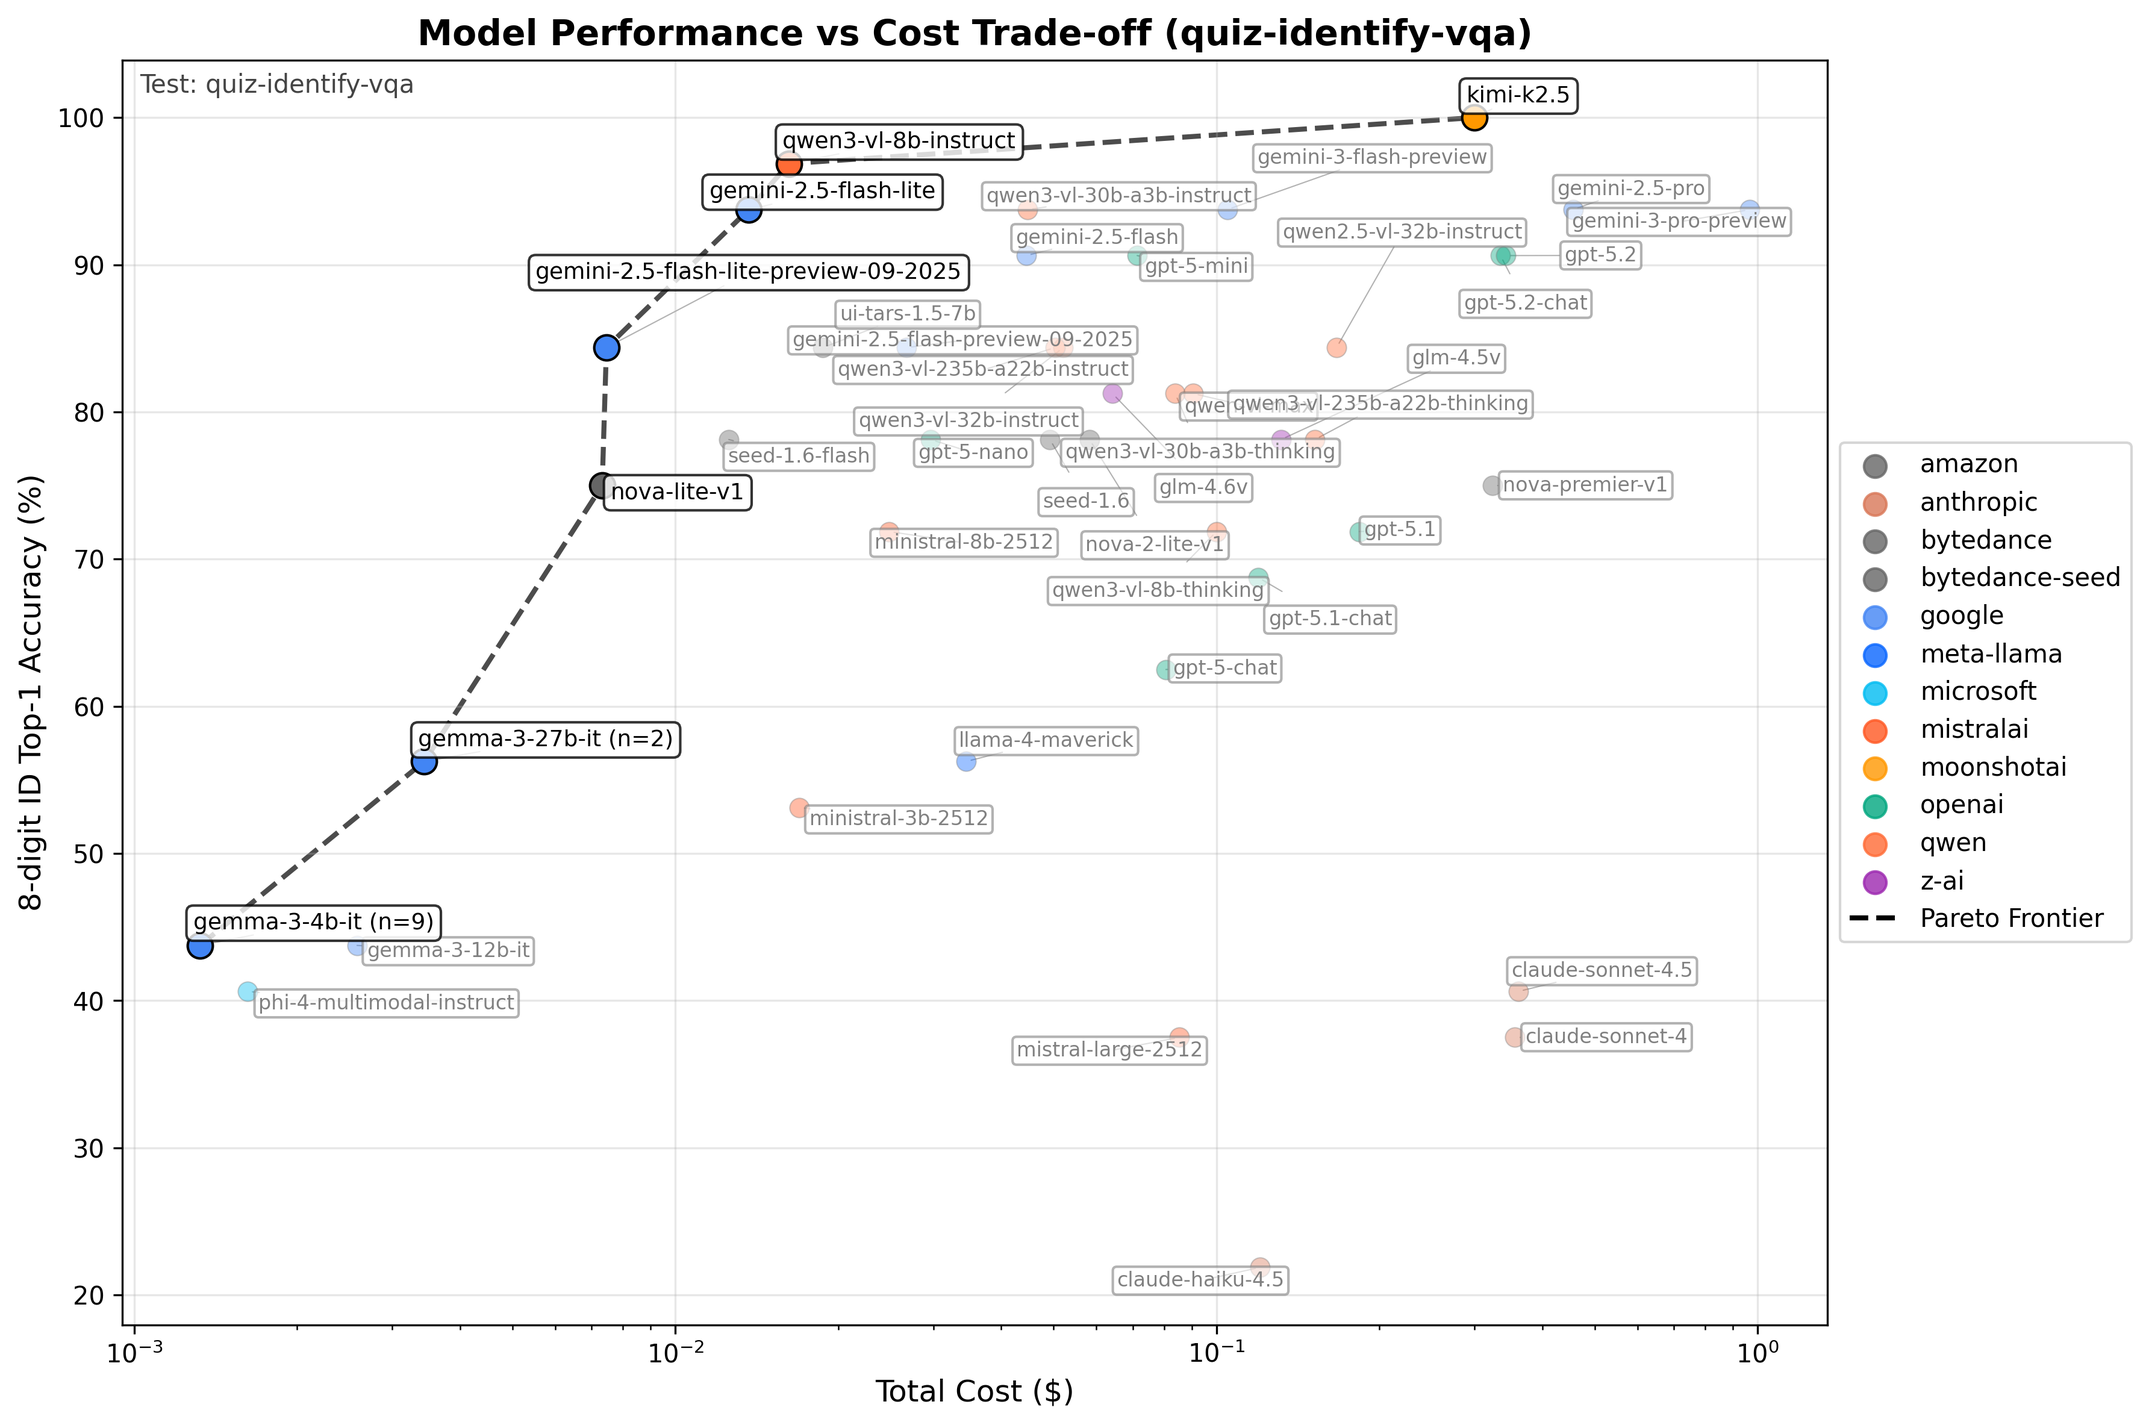
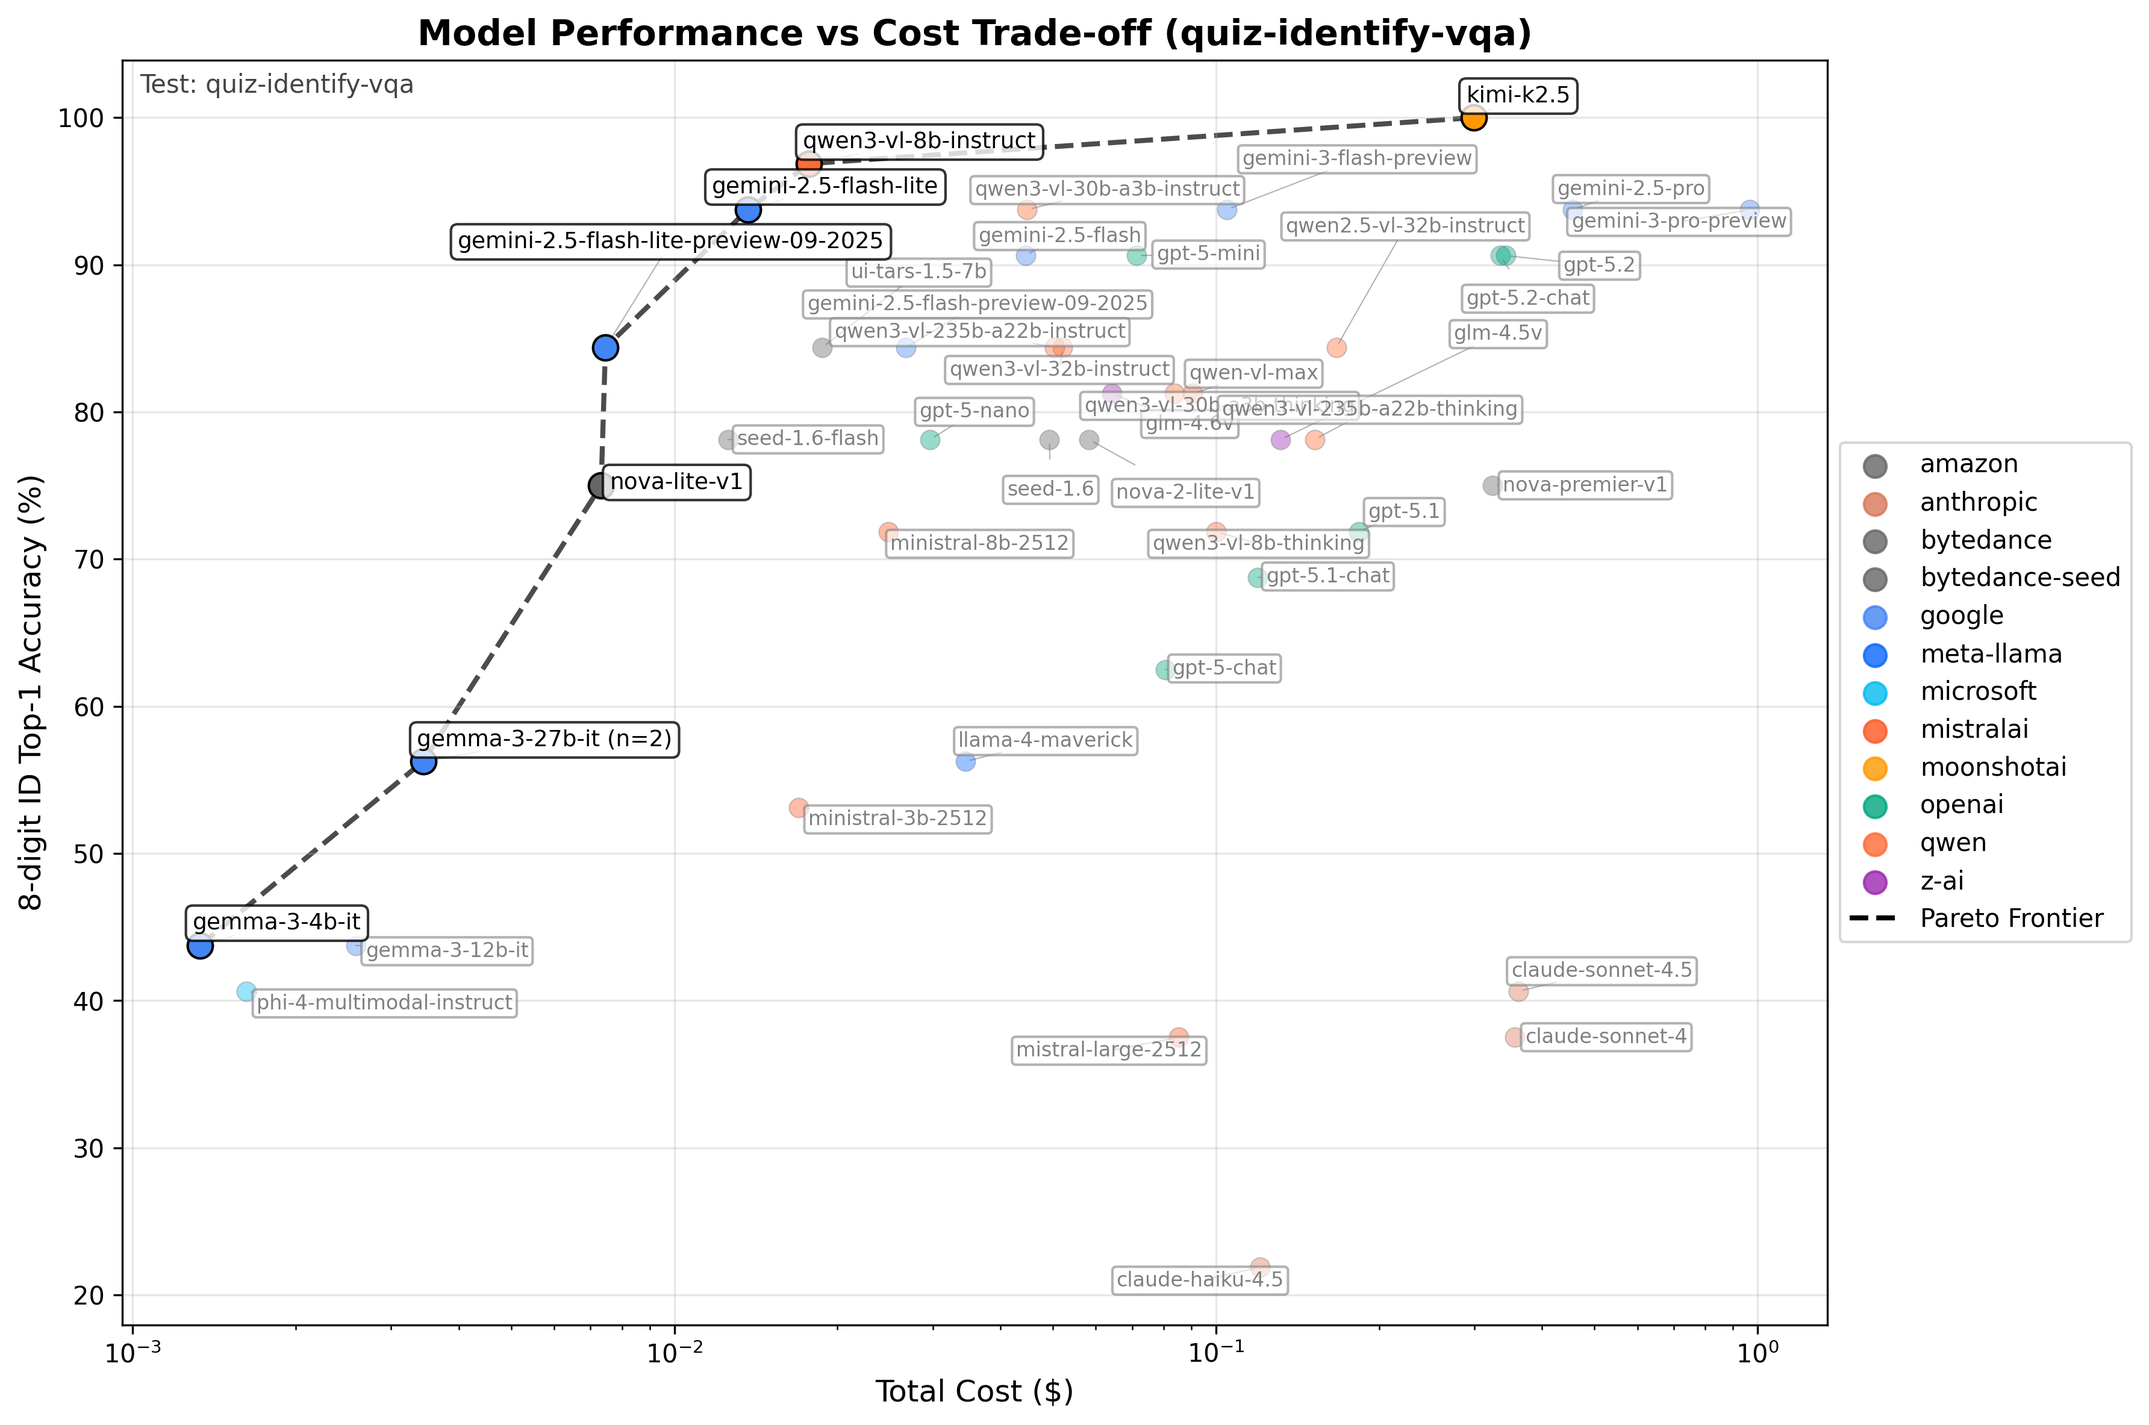
Label README runtime as Runtime (p) and refresh benchmark outputs

diff --git a/src/batch_doc_vqa/benchmarks/table_generator.py b/src/batch_doc_vqa/benchmarks/table_generator.py
@@ -793,7 +793,8 @@ class BenchmarkTableGenerator:
                     )
                     for _, data in ordered_models
                 ]
-                row_data = [row_name] + self._format_best_value(values, higher_is_better=False, format_type="markdown")
+                runtime_label = "Runtime (p)" if prefer_fully_parallelizable_runtime else row_name
+                row_data = [runtime_label] + self._format_best_value(values, higher_is_better=False, format_type="markdown")
                 
             elif row_name == "Cost per image":
                 values = [self.OPENCV_CNN_BASELINE[row_name]] + [

diff --git a/BENCHMARKS.md b/BENCHMARKS.md
@@ -34,16 +34,16 @@ All VLM runs use the following consistent configuration:
 ## Complete Results
 
 
-| **Metric** | **OpenCV+CNN** | **google**<br>gemma-3-27b-it | **google**<br>gemma-3-4b-it | **google**<br>gemma-3-12b-it | **google**<br>gemini-3-flash-preview | **google**<br>gemini-3-pro-preview | **google**<br>gemini-2.5-flash-preview-09-2025 | **google**<br>gemini-2.5-flash-lite-preview-09-2025 | **google**<br>gemini-2.5-pro | **google**<br>gemini-2.5-flash-lite | **google**<br>gemini-2.5-flash | **qwen**<br>qwen3-vl-8b-instruct | **qwen**<br>qwen3-vl-32b-instruct | **qwen**<br>qwen3-vl-8b-thinking | **qwen**<br>qwen3-vl-30b-a3b-instruct | **qwen**<br>qwen3-vl-30b-a3b-thinking | **qwen**<br>qwen-vl-max | **qwen**<br>qwen3-vl-235b-a22b-thinking | **qwen**<br>qwen3-vl-235b-a22b-instruct | **qwen**<br>qwen2.5-vl-32b-instruct | **moonshotai**<br>kimi-k2.5 | **moonshotai**<br>kimi-vl-a3b-thinking:free | **bytedance-seed**<br>seed-1.6 | **bytedance-seed**<br>seed-1.6-flash | **mistralai**<br>ministral-8b-2512 | **mistralai**<br>ministral-3b-2512 | **mistralai**<br>mistral-large-2512 | **openai**<br>gpt-5.2-chat | **openai**<br>gpt-5.2 | **openai**<br>gpt-5.1-chat | **openai**<br>gpt-5.1 | **openai**<br>gpt-5-chat | **openai**<br>gpt-5-mini | **openai**<br>gpt-5-nano | **amazon**<br>nova-2-lite-v1 | **amazon**<br>nova-premier-v1 | **amazon**<br>nova-lite-v1 | **z-ai**<br>glm-4.6v | **z-ai**<br>glm-4.5v | **anthropic**<br>claude-haiku-4.5 | **anthropic**<br>claude-sonnet-4.5 | **anthropic**<br>claude-sonnet-4 | **microsoft**<br>phi-4-multimodal-instruct | **bytedance**<br>ui-tars-1.5-7b | **meta-llama**<br>llama-4-maverick |
+| **Metric** | **OpenCV+CNN** | **qwen**<br>qwen3-vl-8b-instruct | **qwen**<br>qwen3-vl-32b-instruct | **qwen**<br>qwen3-vl-8b-thinking | **qwen**<br>qwen3-vl-30b-a3b-instruct | **qwen**<br>qwen3-vl-30b-a3b-thinking | **qwen**<br>qwen-vl-max | **qwen**<br>qwen3-vl-235b-a22b-thinking | **qwen**<br>qwen3-vl-235b-a22b-instruct | **qwen**<br>qwen2.5-vl-32b-instruct | **google**<br>gemma-3-4b-it | **google**<br>gemma-3-27b-it | **google**<br>gemma-3-12b-it | **google**<br>gemini-3-flash-preview | **google**<br>gemini-3-pro-preview | **google**<br>gemini-2.5-flash-preview-09-2025 | **google**<br>gemini-2.5-flash-lite-preview-09-2025 | **google**<br>gemini-2.5-pro | **google**<br>gemini-2.5-flash-lite | **google**<br>gemini-2.5-flash | **moonshotai**<br>kimi-k2.5 | **moonshotai**<br>kimi-vl-a3b-thinking:free | **bytedance-seed**<br>seed-1.6 | **bytedance-seed**<br>seed-1.6-flash | **mistralai**<br>ministral-8b-2512 | **mistralai**<br>ministral-3b-2512 | **mistralai**<br>mistral-large-2512 | **openai**<br>gpt-5.2-chat | **openai**<br>gpt-5.2 | **openai**<br>gpt-5.1-chat | **openai**<br>gpt-5.1 | **openai**<br>gpt-5-chat | **openai**<br>gpt-5-mini | **openai**<br>gpt-5-nano | **amazon**<br>nova-2-lite-v1 | **amazon**<br>nova-premier-v1 | **amazon**<br>nova-lite-v1 | **z-ai**<br>glm-4.6v | **z-ai**<br>glm-4.5v | **anthropic**<br>claude-haiku-4.5 | **anthropic**<br>claude-sonnet-4.5 | **anthropic**<br>claude-sonnet-4 | **microsoft**<br>phi-4-multimodal-instruct | **bytedance**<br>ui-tars-1.5-7b | **meta-llama**<br>llama-4-maverick |
 |:---|:---|:---|:---|:---|:---|:---|:---|:---|:---|:---|:---|:---|:---|:---|:---|:---|:---|:---|:---|:---|:---|:---|:---|:---|:---|:---|:---|:---|:---|:---|:---|:---|:---|:---|:---|:---|:---|:---|:---|:---|:---|:---|:---|:---|:---|
-| LLM model size | N/A | 27B | 4B | 12B | ?? | ?? | ?? | ?? | ?? | ?? | ?? | 8B | 32B | 8B | 30A3 | 30A3 | ?? | 235A22 | 235A22 | 32B | 1000A32 | 16A3 | ?? | ?? | 8B | 3B | 675A41 | ?? | ?? | ?? | ?? | ?? | ?? | ?? | ?? | ?? | ?? | 106B | 106A12 | ?? | ?? | ?? | 5.6B | 7B | 400A17 |
-| Open-weights | N/A | Yes | Yes | Yes | No | No | No | No | No | No | No | Yes | Yes | Yes | Yes | Yes | No | Yes | Yes | Yes | Yes | Yes | No | No | Yes | Yes | Yes | No | No | No | No | No | No | No | No | No | No | Yes | Yes | No | No | No | Yes | Yes | Yes |
-| digit_top1 | 85.16% | 84.18% (n=2) | 70.31% [69.92%, 72.66%] (n=9) | 75.39% | 99.22% | 99.22% | 98.05% | 97.66% | 99.22% | 99.22% | 98.83% | 99.61% | 97.27% | 92.19% | 99.22% | 97.27% | 97.27% | 94.53% | 97.66% | 96.09% | **100.00%** | 85.94% | 96.48% | 95.70% | 89.84% | 83.59% | 78.12% | 98.44% | 98.44% | 91.80% | 92.58% | 89.84% | 98.83% | 96.48% | 97.27% | 94.53% | 89.06% | 94.92% | 93.36% | 74.22% | 82.81% | 84.77% | 71.48% | 96.48% | 89.84% |
-| 8-digit id_top1 | ?? | 56.25% (n=2) | 43.75% [43.75%, 43.75%] (n=9) | 43.75% | 93.75% | 93.75% | 84.38% | 84.38% | 93.75% | 93.75% | 90.62% | 96.88% | 84.38% | 71.88% | 93.75% | 81.25% | 81.25% | 78.12% | 84.38% | 84.38% | **100.00%** | 50.00% | 78.12% | 78.12% | 71.88% | 53.12% | 37.50% | 90.62% | 90.62% | 68.75% | 71.88% | 62.50% | 90.62% | 78.12% | 78.12% | 75.00% | 75.00% | 81.25% | 78.12% | 21.88% | 40.62% | 37.50% | 40.62% | 84.38% | 56.25% |
-| lastname_top1 | N/A | **100.00% (n=2)** | 93.75% [93.75%, 93.75%] (n=9) | **100.00%** | 96.88% | 96.88% | 96.88% | 96.88% | 96.88% | 93.75% | 96.88% | 96.88% | 96.88% | 90.62% | 93.75% | 93.75% | 96.88% | **100.00%** | 96.88% | **100.00%** | 96.88% | 96.88% | 93.75% | 96.88% | 93.75% | 90.62% | 84.38% | 96.88% | 93.75% | **100.00%** | 96.88% | **100.00%** | 96.88% | 90.62% | 96.88% | 96.88% | 96.88% | 96.88% | **100.00%** | 93.75% | 93.75% | **100.00%** | **100.00%** | 96.88% | 93.75% |
-| ID Avg d_Lev | N/A | 0.9375 (n=2) | 1.1875 [1.0938, 1.1875] (n=9) | 0.9688 | 0.0625 | 0.0625 | 0.1562 | 0.1875 | 0.0625 | 0.0625 | 0.0938 | 0.0312 | 0.2188 | 0.5000 | 0.0625 | 0.2188 | 0.2188 | 0.4688 | 0.1875 | 0.1562 | **0.0000** | 0.9062 | 0.2812 | 0.2812 | 0.4062 | 0.5312 | 1.2188 | 0.1250 | 0.1250 | 0.4375 | 0.5938 | 0.5312 | 0.0938 | 0.2188 | 0.2188 | 0.2500 | 0.3750 | 0.1875 | 0.2188 | 1.4062 | 1.0000 | 1.0938 | 1.2188 | 0.1562 | 0.5312 |
-| Lastname Avg d_Lev | N/A | **0.0000 (n=2)** | 0.0938 [0.0938, 0.0938] (n=9) | **0.0000** | 0.0312 | 0.0312 | 0.0312 | 0.0312 | 0.0312 | 0.0625 | 0.0312 | 0.0312 | 0.0312 | 0.3125 | 0.1875 | 0.0625 | 0.0312 | **0.0000** | 0.0312 | **0.0000** | 0.0312 | 0.0938 | 0.1875 | 0.0312 | 0.1562 | 0.2188 | 0.4688 | 0.0625 | 0.1875 | **0.0000** | 0.0312 | **0.0000** | 0.0312 | 0.1250 | 0.0938 | 0.0312 | 0.0312 | 0.0312 | **0.0000** | 0.2188 | 0.0938 | **0.0000** | **0.0000** | 0.0312 | 0.0938 |
-| Docs detected | 90.62% (29/32) | **100.00% (32/32) (n=2)** | **100.00% (32/32) [100.00%, 100.00%] (n=9)** | **100.00% (32/32)** | **100.00% (32/32)** | **100.00% (32/32)** | **100.00% (32/32)** | **100.00% (32/32)** | **100.00% (32/32)** | **100.00% (32/32)** | **100.00% (32/32)** | **100.00% (32/32)** | **100.00% (32/32)** | **100.00% (32/32)** | **100.00% (32/32)** | **100.00% (32/32)** | **100.00% (32/32)** | **100.00% (32/32)** | **100.00% (32/32)** | **100.00% (32/32)** | **100.00% (32/32)** | **100.00% (32/32)** | **100.00% (32/32)** | **100.00% (32/32)** | **100.00% (32/32)** | **100.00% (32/32)** | **100.00% (32/32)** | **100.00% (32/32)** | **100.00% (32/32)** | **100.00% (32/32)** | **100.00% (32/32)** | **100.00% (32/32)** | **100.00% (32/32)** | **100.00% (32/32)** | **100.00% (32/32)** | **100.00% (32/32)** | **100.00% (32/32)** | **100.00% (32/32)** | **100.00% (32/32)** | **100.00% (32/32)** | **100.00% (32/32)** | **100.00% (32/32)** | **100.00% (32/32)** | **100.00% (32/32)** | **100.00% (32/32)** |
-| Runtime | **~1 second** | 17 seconds (n=2) | 2.1 minutes (n=9) | 10 seconds | 8 seconds | 26.4 minutes | 4.4 minutes | 4.4 minutes | 8.0 minutes | 2.3 minutes | 2.7 minutes | 7 seconds | 2.6 minutes | 14.4 minutes | 2.3 minutes | 6.3 minutes | 4.5 minutes | 13.9 minutes | 4.5 minutes | 2.3 minutes | 1.6 minutes | 9.5 minutes | 57 seconds | 44 seconds | 14 seconds | 18 seconds | 23 seconds | 53 seconds | 57 seconds | 5.2 minutes | 8.9 minutes | 2.8 minutes | 8.3 minutes | 10.5 minutes | 3.5 minutes | 6.4 minutes | 1.7 minutes | 6.6 minutes | 6.2 minutes | 5.0 minutes | 5.4 minutes | 3.5 minutes | 2.1 minutes | 1.8 minutes | 2.0 minutes |
-| Cost per image | **$0.00** | $0.000054 (n=2) | $0.000021 [$0.000021, $0.000021] (n=9) | $0.000040 | $0.001636 | $0.015111 | $0.000418 | $0.000117 | $0.007125 | $0.000214 | $0.000695 | $0.000253 | $0.000814 | $0.001563 | $0.000700 | $0.001311 | $0.001415 | $0.002376 | $0.000786 | $0.002605 | $0.004679 | **$0.000000** | $0.000770 | $0.000196 | $0.000388 | $0.000265 | $0.001335 | $0.005232 | $0.005352 | $0.001866 | $0.002870 | $0.001260 | $0.001115 | $0.000463 | $0.000911 | $0.005061 | $0.000114 | $0.001004 | $0.002057 | $0.001882 | $0.005646 | $0.005567 | $0.000025 | $0.000293 | $0.000539 |
-| Total cost | **$0.00** | $0.0034 (n=2) | $0.0013 [$0.0013, $0.0013] (n=9) | $0.0026 | $0.1047 | $0.9671 | $0.0267 | $0.0075 | $0.4560 | $0.0137 | $0.0445 | $0.0162 | $0.0521 | $0.1000 | $0.0448 | $0.0839 | $0.0906 | $0.1521 | $0.0503 | $0.1667 | $0.2995 | **$0.0000** | $0.0492 | $0.0126 | $0.0248 | $0.0170 | $0.0854 | $0.3348 | $0.3426 | $0.1195 | $0.1837 | $0.0807 | $0.0714 | $0.0297 | $0.0583 | $0.3239 | $0.0073 | $0.0642 | $0.1316 | $0.1205 | $0.3614 | $0.3563 | $0.0016 | $0.0187 | $0.0345 |
+| LLM model size | N/A | 8B | 32B | 8B | 30A3 | 30A3 | ?? | 235A22 | 235A22 | 32B | 4B | 27B | 12B | ?? | ?? | ?? | ?? | ?? | ?? | ?? | 1000A32 | 16A3 | ?? | ?? | 8B | 3B | 675A41 | ?? | ?? | ?? | ?? | ?? | ?? | ?? | ?? | ?? | ?? | 106B | 106A12 | ?? | ?? | ?? | 5.6B | 7B | 400A17 |
+| Open-weights | N/A | Yes | Yes | Yes | Yes | Yes | No | Yes | Yes | Yes | Yes | Yes | Yes | No | No | No | No | No | No | No | Yes | Yes | No | No | Yes | Yes | Yes | No | No | No | No | No | No | No | No | No | No | Yes | Yes | No | No | No | Yes | Yes | Yes |
+| digit_top1 | 85.16% | 99.61% | 97.27% | 92.19% | 99.22% | 97.27% | 97.27% | 94.53% | 97.66% | 96.09% | 72.66% | 84.18% (n=2) | 75.39% | 99.22% | 99.22% | 98.05% | 97.66% | 99.22% | 99.22% | 98.83% | **100.00%** | 85.94% | 96.48% | 95.70% | 89.84% | 83.59% | 78.12% | 98.44% | 98.44% | 91.80% | 92.58% | 89.84% | 98.83% | 96.48% | 97.27% | 94.53% | 89.06% | 94.92% | 93.36% | 74.22% | 82.81% | 84.77% | 71.48% | 96.48% | 89.84% |
+| 8-digit id_top1 | ?? | 96.88% | 84.38% | 71.88% | 93.75% | 81.25% | 81.25% | 78.12% | 84.38% | 84.38% | 43.75% | 56.25% (n=2) | 43.75% | 93.75% | 93.75% | 84.38% | 84.38% | 93.75% | 93.75% | 90.62% | **100.00%** | 50.00% | 78.12% | 78.12% | 71.88% | 53.12% | 37.50% | 90.62% | 90.62% | 68.75% | 71.88% | 62.50% | 90.62% | 78.12% | 78.12% | 75.00% | 75.00% | 81.25% | 78.12% | 21.88% | 40.62% | 37.50% | 40.62% | 84.38% | 56.25% |
+| lastname_top1 | N/A | 96.88% | 96.88% | 90.62% | 93.75% | 93.75% | 96.88% | **100.00%** | 96.88% | **100.00%** | 93.75% | **100.00% (n=2)** | **100.00%** | 96.88% | 96.88% | 96.88% | 96.88% | 96.88% | 93.75% | 96.88% | 96.88% | 96.88% | 93.75% | 96.88% | 93.75% | 90.62% | 84.38% | 96.88% | 93.75% | **100.00%** | 96.88% | **100.00%** | 96.88% | 90.62% | 96.88% | 96.88% | 96.88% | 96.88% | **100.00%** | 93.75% | 93.75% | **100.00%** | **100.00%** | 96.88% | 93.75% |
+| ID Avg d_Lev | N/A | 0.0312 | 0.2188 | 0.5000 | 0.0625 | 0.2188 | 0.2188 | 0.4688 | 0.1875 | 0.1562 | 1.0938 | 0.9375 (n=2) | 0.9688 | 0.0625 | 0.0625 | 0.1562 | 0.1875 | 0.0625 | 0.0625 | 0.0938 | **0.0000** | 0.9062 | 0.2812 | 0.2812 | 0.4062 | 0.5312 | 1.2188 | 0.1250 | 0.1250 | 0.4375 | 0.5938 | 0.5312 | 0.0938 | 0.2188 | 0.2188 | 0.2500 | 0.3750 | 0.1875 | 0.2188 | 1.4062 | 1.0000 | 1.0938 | 1.2188 | 0.1562 | 0.5312 |
+| Lastname Avg d_Lev | N/A | 0.0625 | 0.0312 | 0.3125 | 0.1875 | 0.0625 | 0.0312 | **0.0000** | 0.0312 | **0.0000** | 0.0938 | **0.0000 (n=2)** | **0.0000** | 0.0312 | 0.0312 | 0.0312 | 0.0312 | 0.0312 | 0.0625 | 0.0312 | 0.0312 | 0.0938 | 0.1875 | 0.0312 | 0.1562 | 0.2188 | 0.4688 | 0.0625 | 0.1875 | **0.0000** | 0.0312 | **0.0000** | 0.0312 | 0.1250 | 0.0938 | 0.0312 | 0.0312 | 0.0312 | **0.0000** | 0.2188 | 0.0938 | **0.0000** | **0.0000** | 0.0312 | 0.0938 |
+| Docs detected | 90.62% (29/32) | **100.00% (32/32)** | **100.00% (32/32)** | **100.00% (32/32)** | **100.00% (32/32)** | **100.00% (32/32)** | **100.00% (32/32)** | **100.00% (32/32)** | **100.00% (32/32)** | **100.00% (32/32)** | **100.00% (32/32)** | **100.00% (32/32) (n=2)** | **100.00% (32/32)** | **100.00% (32/32)** | **100.00% (32/32)** | **100.00% (32/32)** | **100.00% (32/32)** | **100.00% (32/32)** | **100.00% (32/32)** | **100.00% (32/32)** | **100.00% (32/32)** | **100.00% (32/32)** | **100.00% (32/32)** | **100.00% (32/32)** | **100.00% (32/32)** | **100.00% (32/32)** | **100.00% (32/32)** | **100.00% (32/32)** | **100.00% (32/32)** | **100.00% (32/32)** | **100.00% (32/32)** | **100.00% (32/32)** | **100.00% (32/32)** | **100.00% (32/32)** | **100.00% (32/32)** | **100.00% (32/32)** | **100.00% (32/32)** | **100.00% (32/32)** | **100.00% (32/32)** | **100.00% (32/32)** | **100.00% (32/32)** | **100.00% (32/32)** | **100.00% (32/32)** | **100.00% (32/32)** | **100.00% (32/32)** |
+| Runtime | **~1 second** | 12 seconds | 2.6 minutes | 14.4 minutes | 2.3 minutes | 6.3 minutes | 4.5 minutes | 13.9 minutes | 4.5 minutes | 2.3 minutes | 22 seconds | 17 seconds (n=2) | 10 seconds | 8 seconds | 26.4 minutes | 4.4 minutes | 4.4 minutes | 8.0 minutes | 2.3 minutes | 2.7 minutes | 1.6 minutes | 9.5 minutes | 57 seconds | 44 seconds | 14 seconds | 18 seconds | 23 seconds | 53 seconds | 57 seconds | 5.2 minutes | 8.9 minutes | 2.8 minutes | 8.3 minutes | 10.5 minutes | 3.5 minutes | 6.4 minutes | 1.7 minutes | 6.6 minutes | 6.2 minutes | 5.0 minutes | 5.4 minutes | 3.5 minutes | 2.1 minutes | 1.8 minutes | 2.0 minutes |
+| Cost per image | **$0.00** | $0.000277 | $0.000814 | $0.001563 | $0.000700 | $0.001311 | $0.001415 | $0.002376 | $0.000786 | $0.002605 | $0.000021 | $0.000054 (n=2) | $0.000040 | $0.001636 | $0.015111 | $0.000418 | $0.000117 | $0.007125 | $0.000214 | $0.000695 | $0.004679 | **$0.000000** | $0.000770 | $0.000196 | $0.000388 | $0.000265 | $0.001335 | $0.005232 | $0.005352 | $0.001866 | $0.002870 | $0.001260 | $0.001115 | $0.000463 | $0.000911 | $0.005061 | $0.000114 | $0.001004 | $0.002057 | $0.001882 | $0.005646 | $0.005567 | $0.000025 | $0.000293 | $0.000539 |
+| Total cost | **$0.00** | $0.0177 | $0.0521 | $0.1000 | $0.0448 | $0.0839 | $0.0906 | $0.1521 | $0.0503 | $0.1667 | $0.0013 | $0.0034 (n=2) | $0.0026 | $0.1047 | $0.9671 | $0.0267 | $0.0075 | $0.4560 | $0.0137 | $0.0445 | $0.2995 | **$0.0000** | $0.0492 | $0.0126 | $0.0248 | $0.0170 | $0.0854 | $0.3348 | $0.3426 | $0.1195 | $0.1837 | $0.0807 | $0.0714 | $0.0297 | $0.0583 | $0.3239 | $0.0073 | $0.0642 | $0.1316 | $0.1205 | $0.3614 | $0.3563 | $0.0016 | $0.0187 | $0.0345 |

diff --git a/README.md b/README.md
@@ -22,11 +22,11 @@ The table below shows the top performing models by category. See [BENCHMARKS.md]
 | 8-digit id_top1 | ?? | **100.00%** | 96.88% | 93.75% | 93.75% |
 | lastname_top1 | N/A | **96.88%** | **96.88%** | **96.88%** | **96.88%** |
 | ID Avg d_Lev | N/A | **0.0000** | 0.0312 | 0.0625 | 0.0625 |
-| Lastname Avg d_Lev | N/A | **0.0312** | **0.0312** | **0.0312** | **0.0312** |
+| Lastname Avg d_Lev | N/A | **0.0312** | 0.0625 | **0.0312** | **0.0312** |
 | Docs detected | 90.62% (29/32) | **100.00% (32/32)** | **100.00% (32/32)** | **100.00% (32/32)** | **100.00% (32/32)** |
-| Runtime | **~1 second** | 1.6 minutes | 7 seconds | 8 seconds | 26.4 minutes |
-| Cost per image | **$0.00** | $0.004679 | $0.000253 | $0.001636 | $0.015111 |
-| Total cost | **$0.00** | $0.2995 | $0.0162 | $0.1047 | $0.9671 |
+| Runtime (p) | **~1 second** | N/A | 12 seconds | N/A | N/A |
+| Cost per image | **$0.00** | $0.004679 | $0.000277 | $0.001636 | $0.015111 |
+| Total cost | **$0.00** | $0.2995 | $0.0177 | $0.1047 | $0.9671 |
 
 
 
